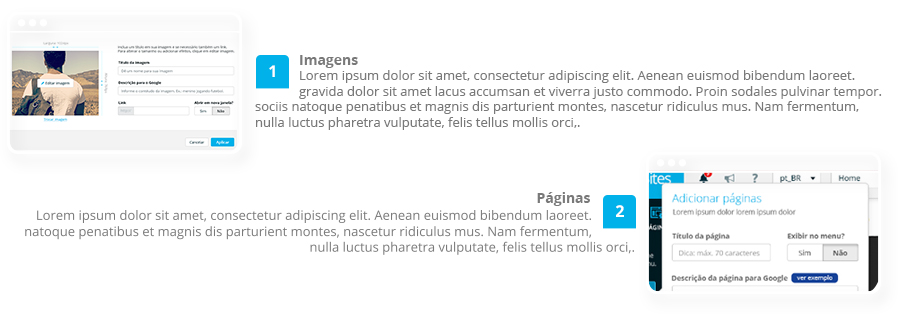
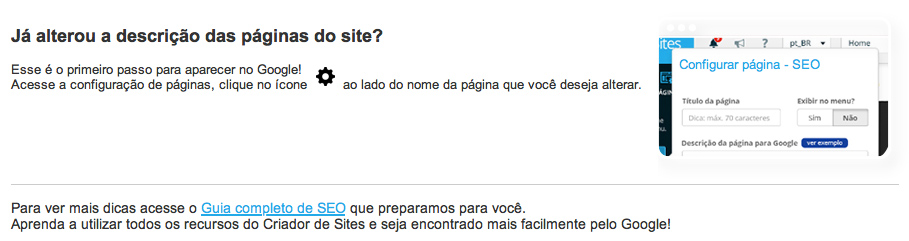
Automated commit at 2015-11-30 20:26:38 UTC by middleman-deploy 1.0.0

Changed region(s): [[0.0, 0.1162, 0.9978, 0.9585], [0.2183, 0.4357, 0.2806, 0.4647]]

diff --git a/index.html b/index.html
@@ -641,7 +641,7 @@
 
       <label class="cs-label">
         <b class="cs-text-label">Descrição da página para Google <a href="" class="cs-tag">ver exemplo</a></b>
-        <textarea cols="72" rows="8" class="cs-field" placeholder="Esta é a descrição que será exibida no Google e em outros buscadores."></textarea>
+        <textarea cols="72" rows="8" class="cs-field" placeholder="Tente escrever uma descrição curta e detalhada do conteúdo desta  página"></textarea>
       </label>
 
       <label class="cs-label-block">
@@ -686,10 +686,10 @@ Caso tenha mais de uma palavra, separe por hífens. Por exemplo: quem-somos">
         <label for="cs-page-new-show"></label>
       </div> -->
 
-      <p>
+      <!-- <p>
         <a href="" class="cs-fanpage">Adicionar página do site à FanPage</a> <a href="#" class="cs-tooltip-top" aria-label="Importante: para utilizar este recurso você já teve ter criado uma fanpage no facebook. Ao ativar está opção, está página do seu site será exibida como uma aba na sua fanpage do facebook, você pode incluir apenas uma página do site por conta.">
         <span class="cs-help-info"></span></a>
-      </p>
+      </p> -->
 
     </div>
 
@@ -786,7 +786,7 @@ Caso tenha mais de uma palavra, separe por hífens. Por exemplo: quem-somos">
 
       <label class="cs-label">
         <b class="cs-text-label">Descrição da página para Google <a href="" class="cs-tag">ver exemplo</a></b>
-        <textarea cols="72" rows="8" class="cs-field" placeholder="Esta é a descrição que será exibida no Google e em outros buscadores."></textarea>
+        <textarea cols="72" rows="8" class="cs-field" placeholder="Tente escrever uma descrição curta e detalhada do conteúdo desta  página"></textarea>
       </label>
 
       <label class="cs-label-block">
@@ -863,7 +863,7 @@ Caso tenha mais de uma palavra, separe por hífens. Por exemplo: quem-somos">
 
       <label class="cs-label">
         <b class="cs-text-label">Descrição da página para Google <a href="" class="cs-tag">ver exemplo</a></b>
-        <textarea cols="72" rows="8" class="cs-field" placeholder="Esta é a descrição que será exibida no Google e em outros buscadores."></textarea>
+        <textarea cols="72" rows="8" class="cs-field" placeholder="Tente escrever uma descrição curta e detalhada do conteúdo desta  página"></textarea>
       </label>
 
       <label class="cs-label-block">
@@ -941,7 +941,7 @@ Caso tenha mais de uma palavra, separe por hífens. Por exemplo: quem-somos">
 
       <label class="cs-label">
         <b class="cs-text-label">Descrição da página para Google <a href="" class="cs-tag">ver exemplo</a></b>
-        <textarea cols="72" rows="8" class="cs-field" placeholder="Esta é a descrição que será exibida no Google e em outros buscadores."></textarea>
+        <textarea cols="72" rows="8" class="cs-field" placeholder="Tente escrever uma descrição curta e detalhada do conteúdo desta  página"></textarea>
       </label>
 
       <label class="cs-label-block">
@@ -1019,7 +1019,7 @@ Caso tenha mais de uma palavra, separe por hífens. Por exemplo: quem-somos">
 
       <label class="cs-label">
         <b class="cs-text-label">Descrição da página para Google <a href="" class="cs-tag">ver exemplo</a></b>
-        <textarea cols="72" rows="8" class="cs-field" placeholder="Esta é a descrição que será exibida no Google e em outros buscadores."></textarea>
+        <textarea cols="72" rows="8" class="cs-field" placeholder="Tente escrever uma descrição curta e detalhada do conteúdo desta  página"></textarea>
       </label>
 
       <label class="cs-label-block">
@@ -1097,7 +1097,7 @@ Caso tenha mais de uma palavra, separe por hífens. Por exemplo: quem-somos">
 
       <label class="cs-label">
         <b class="cs-text-label">Descrição da página para Google <a href="" class="cs-tag">ver exemplo</a></b>
-        <textarea cols="72" rows="8" class="cs-field" placeholder="Esta é a descrição que será exibida no Google e em outros buscadores."></textarea>
+        <textarea cols="72" rows="8" class="cs-field" placeholder="Tente escrever uma descrição curta e detalhada do conteúdo desta  página"></textarea>
       </label>
 
       <label class="cs-label-block">
@@ -1200,9 +1200,6 @@ Caso tenha mais de uma palavra, separe por hífens. Por exemplo: quem-somos">
   <div class="cs-modal-content">
   <br>
          
-    <p>O Criador de Sites é otimizado para o Google, porém é necessário que você siga também algumas dicas para melhorar ainda mais o posicionamento do seu site nos resultados de busca. Por isso separamos 3 dicas principais para te ajudar nisto.</p>
-    <p><b>Você sabe o que é SEO?</b></p>
-    <p>SEO é um conjunto de técnicas que tem como objetivo tornar os sites mais amigáveis para os sites de busca, são trabalhadas palavras-chave no conteúdo do site, nomenclatura das imagens, títulos e links. Tudo isto para que ele fique melhor posicionado nos resultados de busca e as pessoas o encontrem com mais facilidade.</p>
     <img src="http://frontendlw.github.io/yata-static/assets/images/configurar_google.jpg" alt="Conteúdo fake">
     <br><br>
       

diff --git a/assets/javascripts/all.js b/assets/javascripts/all.js
@@ -243,6 +243,7 @@ yata.general = (function() {
 
   function menu(){
     $('.test-menu-link').on('click', function(e){
+      $('input[name="cs-sidebar-new-page"]').removeAttr('checked');
       e.preventDefault();
       var ref = $(this).attr('href');
       $('.test-page').addClass('hide');
